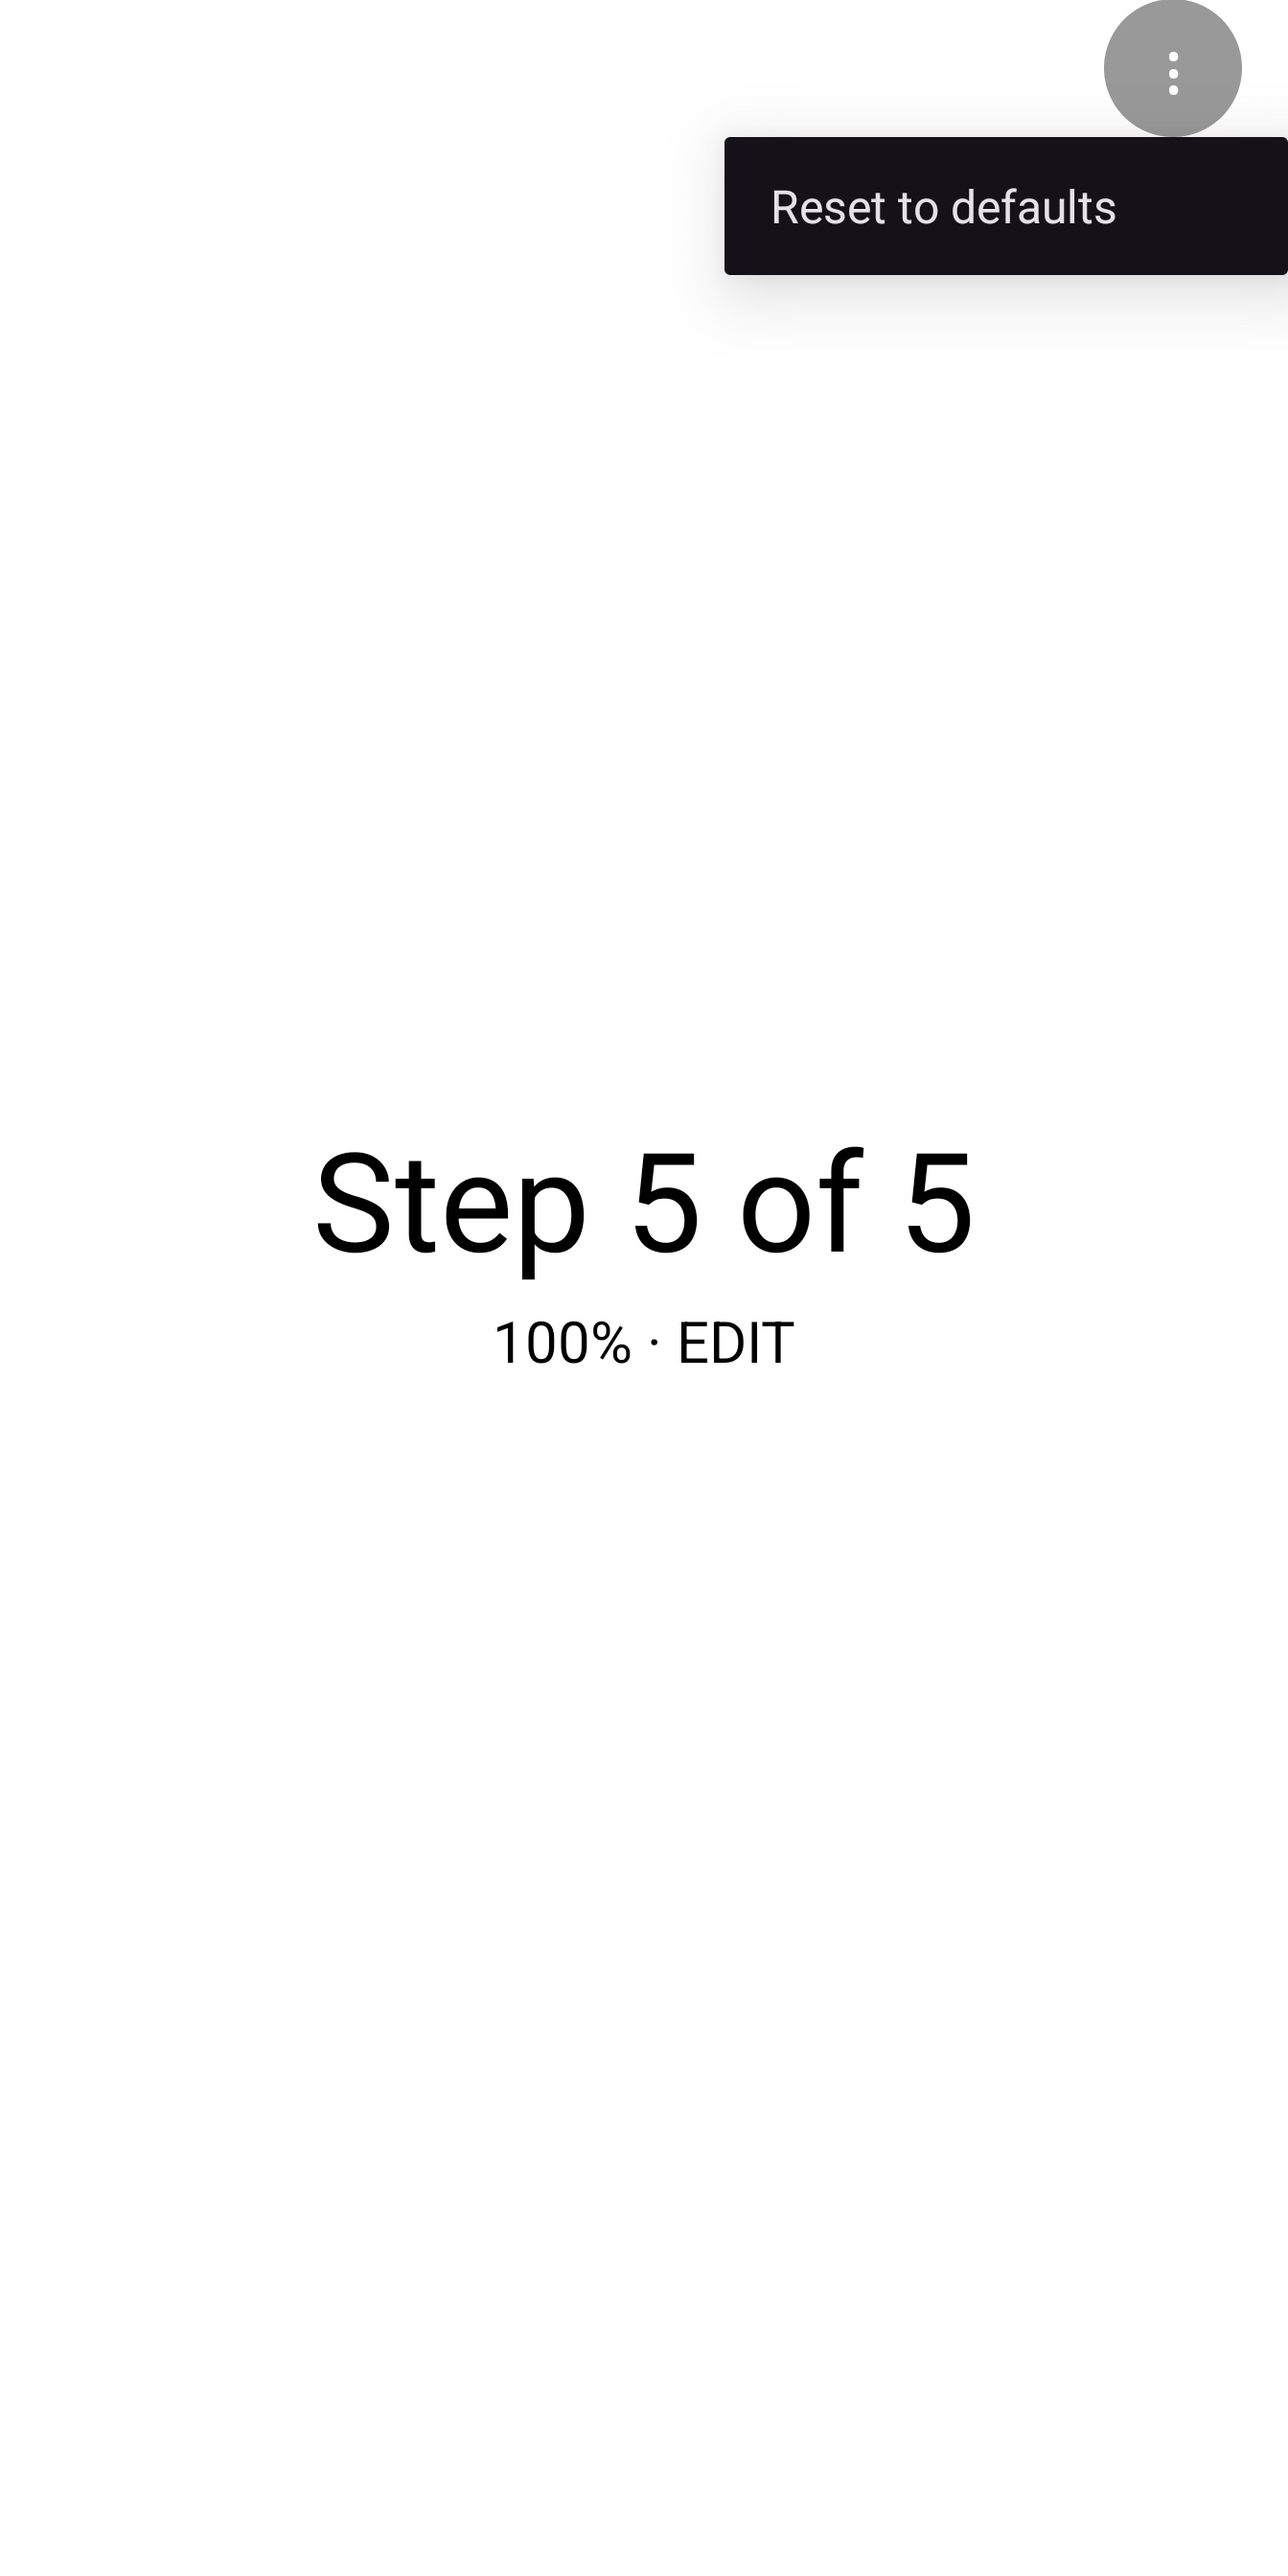
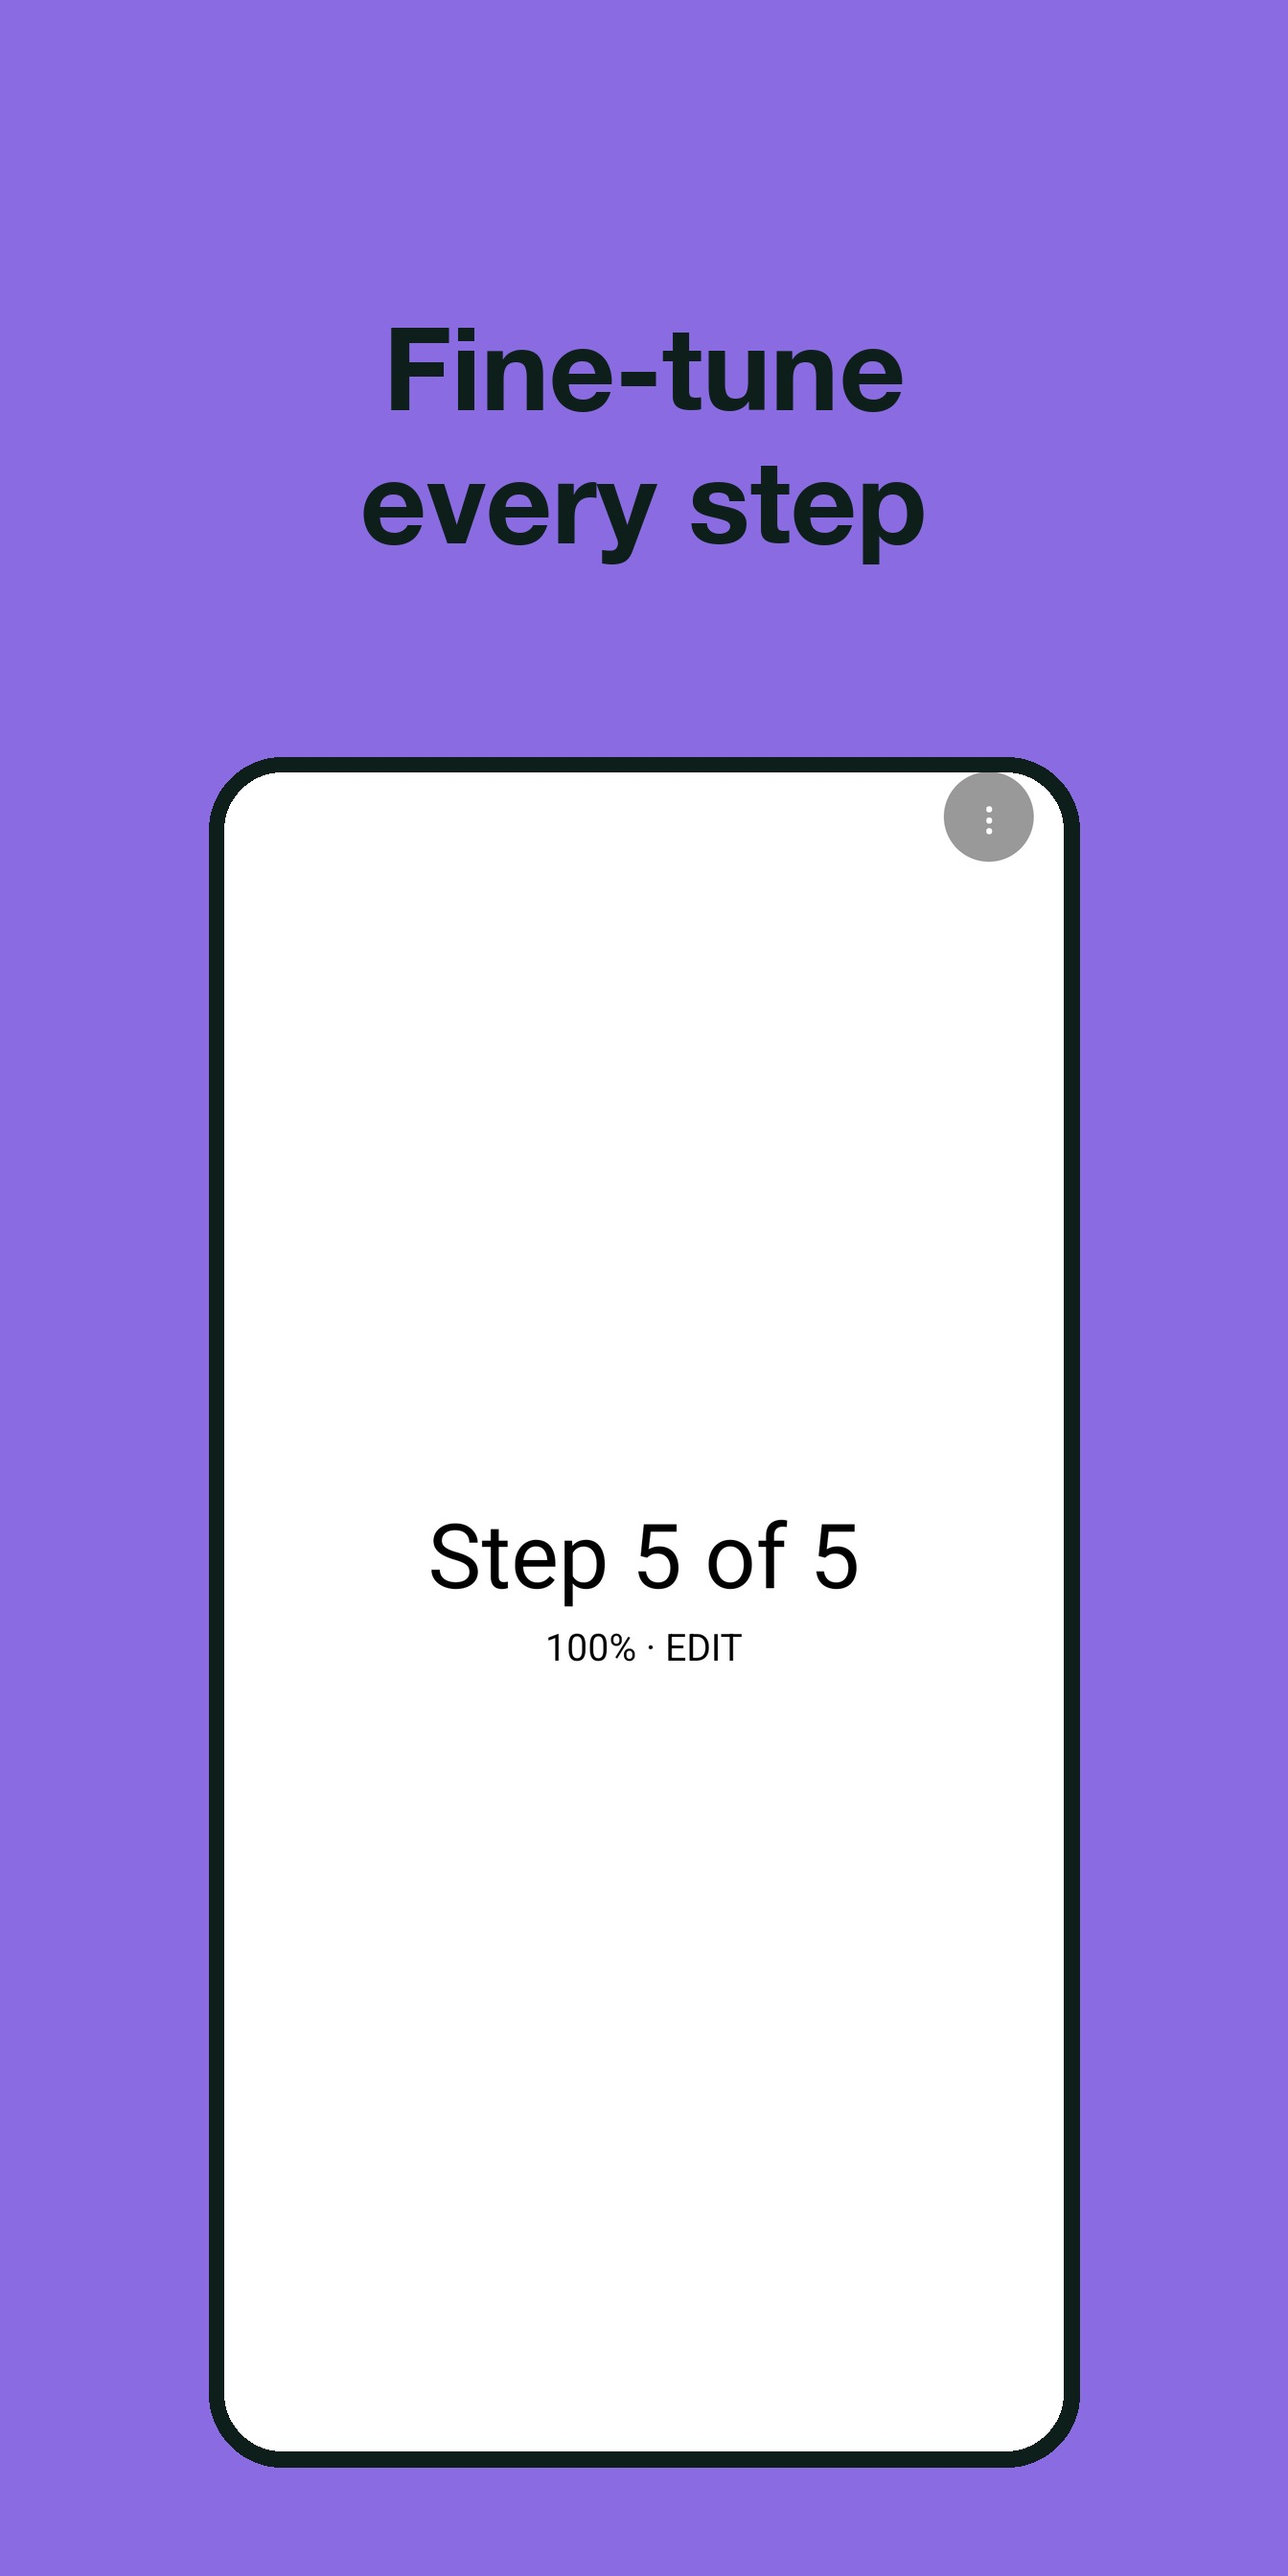
Compose store screenshots from raw captures
The listing previously showed five near-identical colour fields with a step
counter, which explains nothing and, in the case of the white ones, is barely
visible against the Play Store's white page. Replace them with composed tiles:
brand background, one benefit statement per tile, capture in a device frame.

Raw device captures move to tools/screenshots-raw/ and stay the source of
truth; tools/make_tiles.py regenerates the listing images from them, so a
changed statement or a new locale is a script run rather than manual artwork.

The captures themselves were re-shot along the way. The previous en-US
screenshots 3 and 4 still showed the single-line "Step 5 of 5 [EDIT]" label
from before e995365 and no longer matched the shipping app; screenshot 5 was
1008x2016 while the rest were 1344x2688. A German set now exists as well.

diff --git a/tools/make_tiles.py b/tools/make_tiles.py
@@ -1,0 +1,103 @@
+#!/usr/bin/env python3
+"""Baut die Play-Store-Screenshots aus den Rohaufnahmen.
+
+Quelle:    tools/screenshots-raw/<locale>/1..5.jpg   (unveraenderte Geraeteaufnahmen, 1344x2688)
+Ergebnis:  fastlane/metadata/android/<locale>/images/phoneScreenshots/1..5.jpg
+
+Jede Tafel besteht aus der Markenflaeche, einer Aussage und der Rohaufnahme
+in einem Geraeterahmen. Farben und Schrift folgen dem Feature Graphic.
+
+Neue Aufnahmen: Release-Build auf dem Geraet installieren, App-Sprache per
+`adb shell cmd locale set-app-locales <pkg> --locales <tag>` setzen, mit
+`adb exec-out screencap -p` aufnehmen und auf 1344x2688 beschneiden
+(200 px Versatz von oben entfernt Status- und Navigationsleiste).
+
+Aufruf: python3 tools/make_tiles.py
+"""
+from pathlib import Path
+
+from PIL import Image, ImageDraw, ImageFont
+
+REPO = Path(__file__).resolve().parent.parent
+RAW = REPO / "tools/screenshots-raw"
+OUT = REPO / "fastlane/metadata/android"
+
+W, H = 1344, 2688
+BRAND = (0x8A, 0x6B, 0xE2)  # Lila des Feature Graphic
+INK = (0x0E, 0x1F, 0x1B)
+
+CAP_TOP, CAP_BOTTOM = 200, 700
+FRAME_W, BORDER, RADIUS = 908, 16, 76
+
+FONT_PATH = "/System/Library/Fonts/HelveticaNeue.ttc"
+FONT_INDEX = 1  # Bold
+
+# (Rohaufnahme, Aussage de-DE, Aussage en-US)
+TILES = [
+    ("2.jpg", "Dein Bildschirm\nwird zur Lampe", "Your screen\nbecomes the light"),
+    ("1.jpg", "Fünf Helligkeits-\nstufen — antippen", "Five brightness\nsteps — just tap"),
+    ("5.jpg", "Rotlicht schont\ndie Nachtsicht", "Red light preserves\nnight vision"),
+    ("3.jpg", "Jede Stufe\nfein justierbar", "Fine-tune\nevery step"),
+    ("4.jpg", "Keine Berechtigungen.\nKeine Werbung.\nKein Tracking.",
+              "No permissions.\nNo ads.\nNo tracking."),
+]
+
+LOCALES = {"de-DE": 1, "en-US": 2}  # Locale -> Index der Aussage in TILES
+
+
+def fit_font(lines, max_w, max_h, start=120):
+    """Groesste Schriftgroesse, bei der der Textblock in die Caption-Flaeche passt."""
+    size = start
+    while size > 30:
+        font = ImageFont.truetype(FONT_PATH, size, index=FONT_INDEX)
+        line_h = int(size * 1.16)
+        widest = max(font.getbbox(line)[2] - font.getbbox(line)[0] for line in lines)
+        if widest <= max_w and line_h * len(lines) <= max_h:
+            return font, line_h
+        size -= 2
+    return ImageFont.truetype(FONT_PATH, 30, index=FONT_INDEX), 36
+
+
+def rounded_shot(path, w, h, radius):
+    """Rohaufnahme auf Zielgroesse bringen und Ecken abrunden."""
+    img = Image.open(path).convert("RGB").resize((w, h), Image.LANCZOS)
+    mask = Image.new("L", (w, h), 0)
+    ImageDraw.Draw(mask).rounded_rectangle([0, 0, w - 1, h - 1], radius=radius, fill=255)
+    out = Image.new("RGBA", (w, h))
+    out.paste(img, (0, 0), mask)
+    return out
+
+
+def build(locale, caption_index):
+    dst = OUT / locale / "images/phoneScreenshots"
+    dst.mkdir(parents=True, exist_ok=True)
+
+    for n, tile in enumerate(TILES, start=1):
+        canvas = Image.new("RGB", (W, H), BRAND)
+        draw = ImageDraw.Draw(canvas)
+
+        lines = tile[caption_index].split("\n")
+        font, line_h = fit_font(lines, W - 200, CAP_BOTTOM - CAP_TOP)
+
+        y = CAP_TOP + (CAP_BOTTOM - CAP_TOP - line_h * len(lines)) // 2
+        for line in lines:
+            bbox = font.getbbox(line)
+            draw.text(((W - (bbox[2] - bbox[0])) // 2 - bbox[0], y), line, font=font, fill=INK)
+            y += line_h
+
+        inner_w = FRAME_W - 2 * BORDER
+        inner_h = inner_w * 2  # Rohaufnahmen sind exakt 1:2
+        fx, fy = (W - FRAME_W) // 2, CAP_BOTTOM + 90
+        draw.rounded_rectangle(
+            [fx, fy, fx + FRAME_W, fy + inner_h + 2 * BORDER], radius=RADIUS, fill=INK
+        )
+        shot = rounded_shot(RAW / locale / tile[0], inner_w, inner_h, RADIUS - BORDER)
+        canvas.paste(shot, (fx + BORDER, fy + BORDER), shot)
+
+        canvas.save(dst / f"{n}.jpg", quality=92)
+    print(f"{locale}: {len(TILES)} Tafeln")
+
+
+if __name__ == "__main__":
+    for locale, caption_index in LOCALES.items():
+        build(locale, caption_index)
